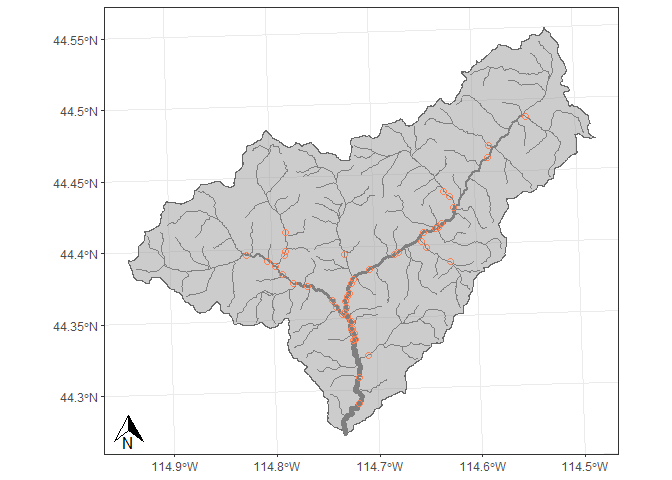
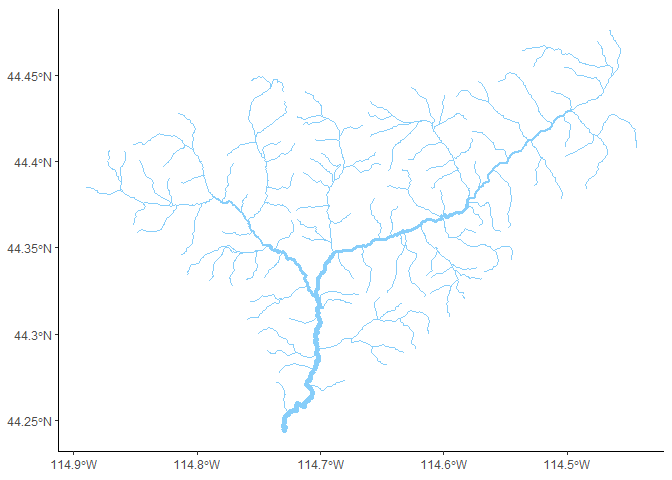
yf2

diff --git a/README.md b/README.md
@@ -17,6 +17,9 @@ library(SSN)
 
 ## Yankee-Fork Streams
 
+Yankee-Fork, USA streams with sites, prediction sites and watershed
+layers.
+
 ``` r
 sites <- readOGR("gisdata/yankeefork","sites")
 ```
@@ -26,6 +29,16 @@ sites <- readOGR("gisdata/yankeefork","sites")
     ## with 208 features
     ## It has 10 fields
     ## Integer64 fields read as strings:  VisitID VisitYr
+
+``` r
+preds <- readOGR("gisdata/yankeefork", "preds")
+```
+
+    ## OGR data source with driver: ESRI Shapefile 
+    ## Source: "C:\spmodels\streamviz\gisdata\yankeefork", layer: "preds"
+    ## with 276 features
+    ## It has 29 fields
+    ## Integer64 fields read as strings:  COMID FCODE DUP_COMID StreamOrde NEAR_FID
 
 ``` r
 watershed <- readOGR("gisdata/yankeefork/watershed.shp", "watershed")
@@ -47,6 +60,28 @@ streams <- readOGR("gisdata/yankeefork","streams")
     ## It has 32 fields
     ## Integer64 fields read as strings:  COMID FCODE DUP_COMID StreamOrde reachID rid netID
 
+### Simple Stream Network
+
+Stream network where the width is proportional to some downstream
+accumulative value.
+
+``` r
+ggplot() +
+  layer_spatial(streams, 
+                aes(size = afvArea), 
+                colour = "lightskyblue") +
+  coord_sf() + 
+  scale_size(range = c(0, 2), guide = FALSE) +
+  theme_classic()
+```
+
+![](README_files/figure-gfm/unnamed-chunk-1-1.png)<!-- -->
+
+### Watershed study area with observation sites
+
+Getting slightly fancy. Now add in a watershed and observation sites.
+Also an annotation arrow for flavour.
+
 ``` r
 ggplot() +
   layer_spatial(watershed, fill = "gray60", alpha = 0.5, colour = "gray40") +
@@ -67,4 +102,6 @@ ggplot() +
         axis.text.y = element_text())
 ```
 
-![](README_files/figure-gfm/unnamed-chunk-1-1.png)<!-- -->
+![](README_files/figure-gfm/unnamed-chunk-2-1.png)<!-- -->
+
+## Maleny Streams
